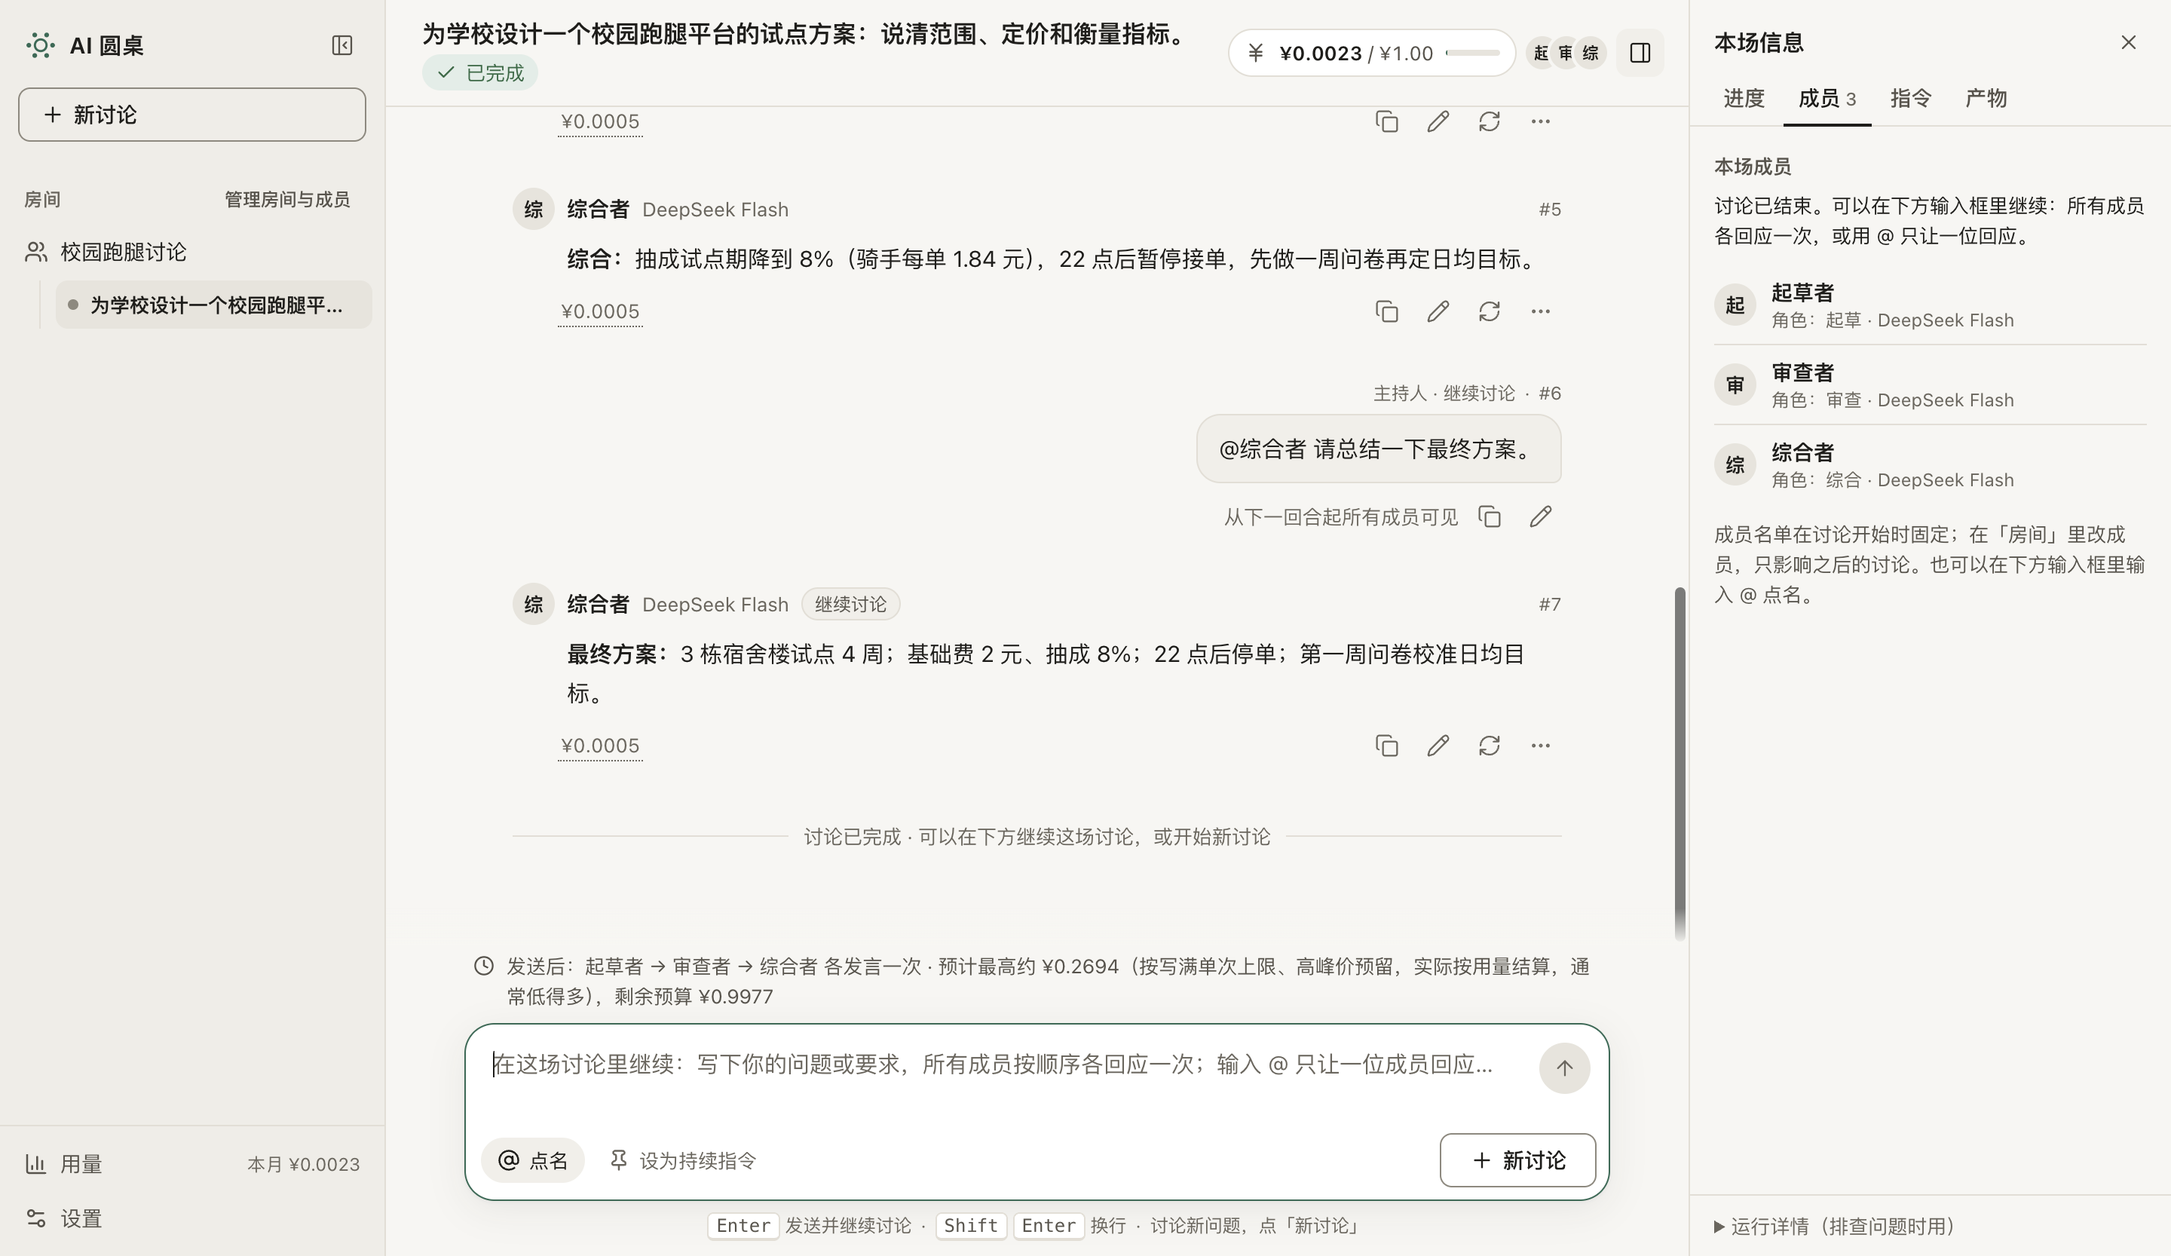
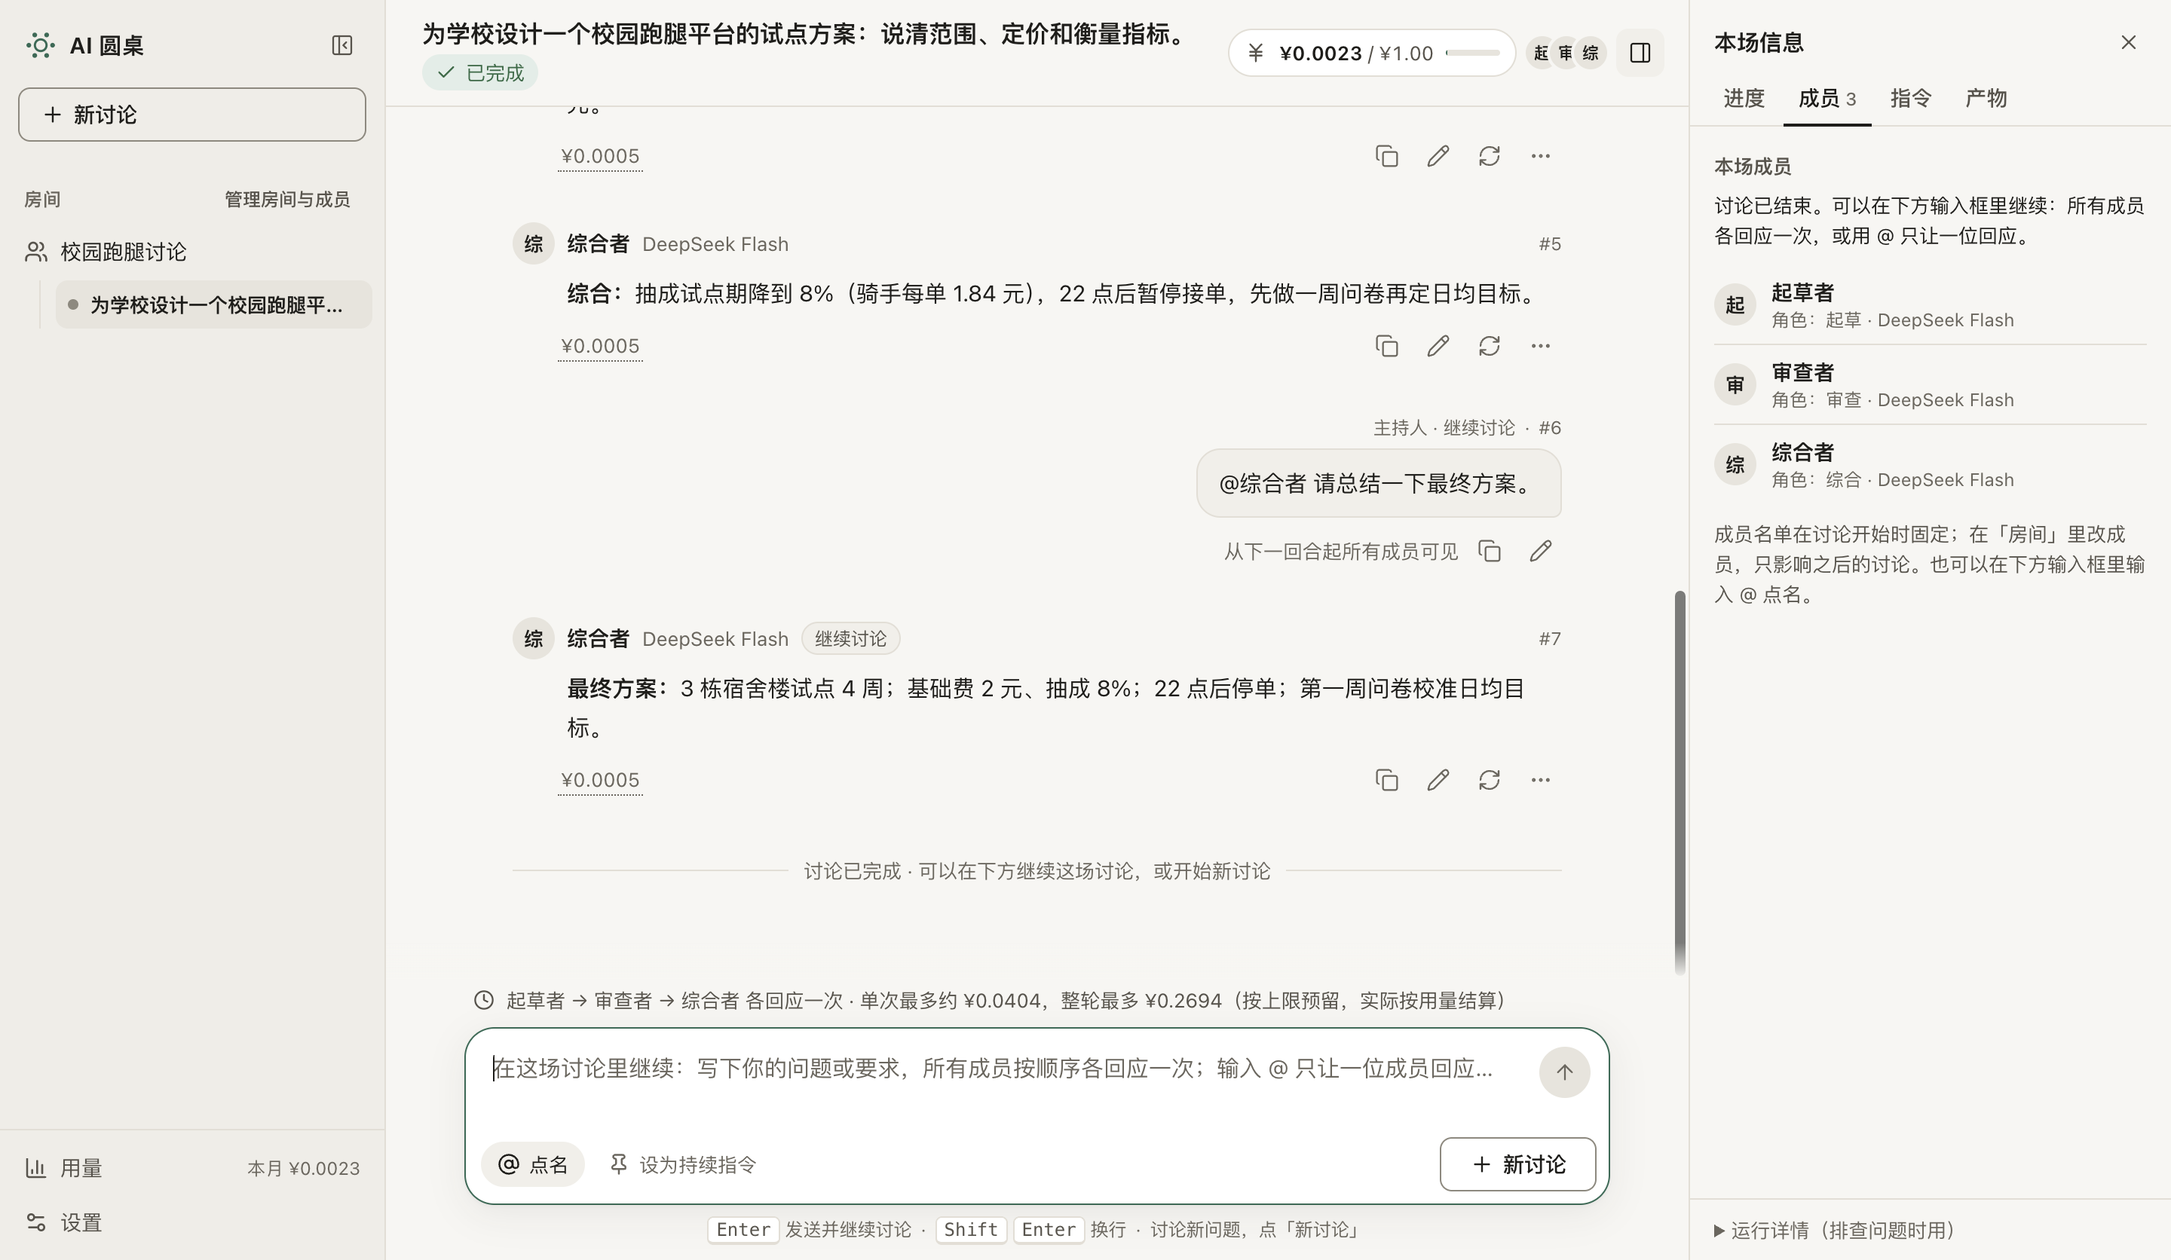
docs: review fixes in D111 and the continuity record; regenerate its screenshots
pnpm test 136 files / 2003 tests; r16-continuity-acceptance PASS (32 checks, 13 screenshots) on the final build.

diff --git a/docs/verification/2026-10-27-r16-continuity.md b/docs/verification/2026-10-27-r16-continuity.md
@@ -25,23 +25,24 @@
 | 检查 | 命令 | 结果 |
 | --- | --- | --- |
 | 类型检查 | `pnpm run typecheck` | exit 0 |
-| 全量测试 | `pnpm test`（Electron 自带 Node） | exit 0，135 个文件 / 1998 个测试全部通过（基线 main 为 134 / 1977） |
+| 全量测试 | `pnpm test`（Electron 自带 Node） | exit 0，136 个文件 / 2003 个测试全部通过（基线 main 为 134 / 1977） |
 | 构建 | `pnpm run build` | exit 0 |
 
 新增 / 改写的测试：
 
-- `tests/integration/host/continuity.test.ts`（新，12 项）：D110 第 2 轮后点名 B → A、B、B（插入）、C，C 看得到检查；最后一位发言时点名 → 插入后结束；工作流中点名后步骤全部完成、无 `limitReason`、总回合 = 步骤 + 1。D111 @C 继续（同一 Run、C 看到全部历史与主持人的话、自己的旧回复仍是 assistant、重复投递幂等、换内容复用 clientRequestId 被拒、事件序列递增）；不带 @ 全员一轮且后者看得到前者；运行中拒绝且不留痕迹；停用成员不参与、点名停用成员被拒、点名外人 `not_found`；停止后继续不回到原计划；新的时长额度；继续中再点名；工作流运行继续不带阶段要求。D112 修改前请求体没有修改规则、修改后有。
+- `tests/integration/host/continuity.test.ts`（新，13 项）：主持人修改过的回合算已结算、可以继续；D110 第 2 轮后点名 B → A、B、B（插入）、C，C 看得到检查；最后一位发言时点名 → 插入后结束；工作流中点名后步骤全部完成、无 `limitReason`、总回合 = 步骤 + 1。D111 @C 继续（同一 Run、C 看到全部历史与主持人的话、自己的旧回复仍是 assistant、重复投递幂等、换内容复用 clientRequestId 被拒、事件序列递增）；不带 @ 全员一轮且后者看得到前者；运行中拒绝且不留痕迹；停用成员不参与、点名停用成员被拒、点名外人 `not_found`；停止后继续不回到原计划；新的时长额度；继续中再点名；工作流运行继续不带阶段要求。D112 修改前请求体没有修改规则、修改后有。
+- `tests/integration/host/continuityLedger.test.ts`（新，3 项，总控审查后补）：`run_continuations` 的 UPDATE、DELETE 被拒；action 是另一场讨论的点名、另一场讨论的插话或不存在时插入被拒；`validateDatabase` 能发现回答者不在这次继续的名单里、回答次数超过名单人数、三条保护触发器中任一条缺失。
 - `tests/integration/usage/runBudget.test.ts`（+1）：DeepSeek 夹具下，继续的每次回答都预留并结算；估算不低于实际预留之和，第一次的估算不低于第一次实际预留；第一次放不下剩余预算时 `budget_exceeded`，没有写任何主持人操作或继续记录、没有发请求；第二位成员看到了主持人的话和第一位的回答。
 - `tests/integration/host/persistence.test.ts`（+1）：继续中途异常退出 → 重启后 `interrupted`、0 次请求、`resume` 被拒、`retry` 后补完本轮，共 2 次请求；数据库校验 v10 通过。
 - `tests/unit/context/discussionFormat.test.ts`：没有修改时请求体不含“写于前序修改之前”“已由主持人修改”，规则编号 1–3；有受影响回复或主持人修改的插话时规则出现并编号为 3。
-- `tests/unit/chatUI/composer.test.tsx`（+3）、`tests/unit/rendererHost/hostFeature.test.tsx`（+1）、`tests/unit/chatUI/timeline.test.tsx`（+1）：继续模式的预计花费与谁回应、@ 只让一位回应、一次点两位被拒且保留文字、预算不足时指向追加预算且发送按钮不可用；“下一位 / 之后”投影；主持人发话后时间线回到最新。
+- `tests/unit/chatUI/composer.test.tsx`（+3）、`tests/unit/rendererHost/hostFeature.test.tsx`（+2，含界面按与 Main 相同的“已结算”规则判断能否继续：请求未完成的版本不算、主持人修改算、停在半截的回合不算、预算停下不走继续）、`tests/unit/chatUI/timeline.test.tsx`（+1）：继续模式的预计花费与谁回应、@ 只让一位回应、一次点两位被拒且保留文字、预算不足时指向追加预算且发送按钮不可用；“下一位 / 之后”投影；主持人发话后时间线回到最新。
 - 按新语义改写（原因：D110 点名不再替换原计划的下一位；D111 已结束的讨论默认继续而不是另开一场）：`hostCommands.test.ts`（`['a','c','b']` → `['a','c','b','c']`）、`appFlow.test.tsx`（起草者 → 被点名的综合者 → 审查者 → 综合者，受影响 2 → 3）、`hostFeature.test.tsx`（已完成的运行显示继续框）、`composer.test.tsx`（工作流第一步的起草者“按计划本来就是下一位”）、`rendererSync.test.tsx`（完成提示文案）、`stateMachine.test.ts`（`completed → running` 允许）、各 migration 测试的最新版本 9 → 10。
 
 ### 受影响的探针
 
 | 探针 | 结果 | 说明 |
 | --- | --- | --- |
-| `r16-continuity-acceptance`（新） | PASS，31 项检查 / 13 张截图 / 8 次请求 | 本专项的第 2 层实操，见下节 |
+| `r16-continuity-acceptance`（新） | PASS，32 项检查 / 13 张截图 / 8 次请求（审查后最终构建） | 本专项的第 2 层实操，见下节 |
 | `r12-electron` 首次 + `--restart` | PASS，22 + 14 项，重启后 0 次请求 | `r12-ui.cjs` 按 D110 改写：顺序为起草者 → 被点名的综合者 → 审查者 → 综合者，受影响 2 → 3，重新生成最后一条，请求 5 次 |
 | `r12-acceptance` | PASS，25 项 / 14 张 | 按 D110/D111 改写：已完成的运行显示继续框；改第一条后受影响 3 条；开下一场前先点「新讨论」 |
 | `r13a-electron` 首次 + `--restart` | PASS，13 + 12 项 | 未改 |
@@ -72,14 +73,14 @@
 | 02-named-critic | 点「点名」打开菜单，方向键选审查者、Enter 写入 `@审查者 `，再用输入法输入“检查一下骑手收入那一段的数字。”（组合中按回车只确认候选，没有发送），Enter 发送。提示条：“下一位：审查者（主持人点名，插入一轮，不打断正在进行的发言）· 之后回到原计划：综合者”，并有「取消点名」。 |
 | 03-panel-members-named | 本场信息 › 成员 写同样的话，并说明“点名是在下一回合插入一轮：不占用计划的回合，之后回到原计划，原计划的成员不会被跳过”。 |
 | 04-path1-done | 点「继续」后跑完：起草者、审查者、主持人插话、审查者（标“主持人点名”，核对了数字）、综合者照常综合，用到了审查者的核对。时间线末尾“讨论已完成 · 可以在下方继续这场讨论，或开始新讨论”。 |
-| 05-completed-continue-box | 讨论结束后输入框默认“在这场讨论里继续”（占位文字说明不带 @ 时所有成员各回应一次、带 @ 只让一位回应），上方写“发送后：起草者 → 审查者 → 综合者 各发言一次 · 预计最高约 ¥…（按写满单次上限、高峰价预留，实际按用量结算，通常低得多），剩余预算 ¥…”；槽位是「新讨论」，提示行写“讨论新问题，点「新讨论」”。本场信息 › 成员：“讨论已结束。可以在下方输入框里继续…”。 |
+| 05-completed-continue-box | 讨论结束后输入框默认“在这场讨论里继续”（占位文字说明不带 @ 时所有成员各回应一次、带 @ 只让一位回应）。上方一行写“起草者 → 审查者 → 综合者 各回应一次 · 单次最多约 ¥0.0400，整轮最多 ¥0.2679（按上限预留，实际按用量结算）”，1440 宽、本场信息展开时也只占一行（探针按行高核对）；剩余预算见顶栏，不够时会在下面另起一行警告。槽位是「新讨论」，提示行写“讨论新问题，点「新讨论」”。本场信息 › 成员：“讨论已结束。可以在下方输入框里继续…”。 |
 | 06-continue-mention | 继续时点「点名」：菜单标题“只让一位成员回应”，说明带 @ 与不带 @ 的区别。 |
-| 07-continue-at-synth | 选综合者并输入“请总结一下最终方案。”：提示条变成“只由综合者回应一次 · 预计最高约 ¥0.04…”。打字期间没有发出任何请求。 |
+| 07-continue-at-synth | 选综合者并输入“请总结一下最终方案。”：提示行变成“只由综合者回应一次 · 最多 ¥0.04…（按上限预留，实际按用量结算）”。打字期间没有发出任何请求。 |
 | 08-continue-at-synth-done | Enter 后在同一场讨论里继续（运行 ID 不变、侧栏仍只有这一场）：主持人的话标“主持人 · 继续讨论”，综合者的回答标“继续讨论”。它的请求里有前面全部发言和主持人的两段话，它自己先前的综合仍作为它自己的发言（assistant）。 |
-| 09-continue-round | 不带 @ 输入“再各说一句：试点最大的风险是什么？”：提示条“起草者 → 审查者 → 综合者 各发言一次 · 预计最高约 …”。 |
+| 09-continue-round | 不带 @ 输入“再各说一句：试点最大的风险是什么？”：提示行“起草者 → 审查者 → 综合者 各回应一次 · 单次最多约 …，整轮最多 …”。 |
 | 10-continue-round-done | 三位按顺序各回应一次，都标“继续讨论”；后面的成员看得到前面的回答（请求内容已核对）。8 次请求全部预留并按实际用量结算。 |
 | 11-panel-progress | 本场信息 › 进度：“成员按顺序轮流发言 · 计划 3 / 3 回合 · 另有 5 轮插入（点名 1、继续讨论 4）”。 |
-| 12-continue-box-dark | 深色主题下的继续框与提示条。 |
+| 12-continue-box-dark | 深色主题下的继续框与单行的花费提示。 |
 | 13-new-discussion | 点「新讨论」才出现“这场讨论要解决什么？”和目标框；没有发出请求，上一场留在侧栏。 |
 
 同一次实操还核对了 D112：8 次请求的系统消息里都没有“写于前序修改之前”“已由主持人修改”，规则编号为 1–3。
@@ -89,7 +90,15 @@
 1. 讨论结束、输入框切换为继续模式后，上一阶段的“已点名审查者并发送插话…”提示还挂着 —— 切换时清掉。
 2. 主持人发出继续（或插话）时，如果之前往上翻看过，时间线不会回到最新，看不到回答 —— 主持人发话后时间线回到最新（`Timeline` 的 `latestFromHost`，有单元测试）。
 3. 继续提示条文字较长换行时，时钟图标单独占了一行 —— 图标固定在首行，文字自身换行。
-4. 预计花费只写“预计最高 ¥0.17”容易被误读成实际花费 —— 写明“按写满单次上限、高峰价预留，实际按用量结算，通常低得多”。
+4. 预计花费只写“预计最高 ¥0.17”容易被误读成实际花费 —— 写明“按上限预留，实际按用量结算”。总控审查后进一步改为单次与整轮分开说、压成一行（见下节）。
+
+## 总控审查后的修改（2026-10-27）
+
+1. **花费说明**：上限算法不变。提示行把单次（第一位回应的上限）和整轮（全部回应的上限）分开说，括号只留“按上限预留，实际按用量结算”；去掉了“发送后：”前缀和剩余预算（顶栏预算胶囊里有，不够时警告里写明剩余多少），1440 宽、本场信息展开时也只占一行。预算不足与“可能不够一整轮”的警告逻辑不变。重新截了 05、07、08、09、12（含深色），全套 13 张已按最终代码重新生成。
+2. **migration 10 保护测试**：新增 `tests/integration/host/continuityLedger.test.ts`（3 项，见第 1 层）。
+3. **“能否继续”前后端对齐**：Renderer 新增与 Main `turnSettled` 相同规则的 `turnSettled`（回合已完成，且当前有效版本是已完成的消息，它自己的请求已完成或它是主持人修改），`canContinueRun` 改用它。审查意见里说的“失败后被主持人修改过的回合”在 Main 里并不算已结算（Main 要求回合状态为已完成，主持人也不能修改未结算的回合），所以实际差异是另一边：Renderer 原来只看回合状态，没有看当前有效版本和它的请求。现在两边一致，单元测试与集成测试各覆盖一条。
+
+修改后：typecheck exit 0；136 个文件 / 2003 个测试全部通过；build exit 0。`r16-continuity-acceptance` 在最终构建上 PASS（32 项检查、13 张截图、8 次请求）；`r12-acceptance`、`r13a-acceptance`、`r13b-acceptance`、`premerge-quality-acceptance`、`r16-acceptance`、`r10-r11-electron`（首次 + 重启）在压缩文案之前的构建上 PASS，两者之间只差继续提示行的文案（这些探针不读这行），其余截图目录已还原。
 
 ## 第 3 层：真实模型实测
 
@@ -97,15 +106,15 @@
 
 1. 三位成员（起草 / 审查 / 综合），按顺序轮流 3 回合，勾选“每回合后暂停”。目标：设计校园跑腿平台试点方案。
 2. 第 1、2 轮后暂停，输入 `@审查者 检查一下骑手收入那一段的数字`，确认“下一位：审查者（主持人点名，插入一轮…）· 之后回到原计划：综合者”，点「继续」。核对：审查者插入一轮，综合者照常综合；综合者的回答里用到了审查者的核对。（4 次请求）
-3. 讨论结束后，输入 `@综合者 请总结最终方案`，确认输入框上方“只由综合者回应一次 · 预计最高约 ¥…”。核对：综合者在同一场讨论里回答、引用了前面的内容；侧栏仍只有这一场。（1 次请求）
+3. 讨论结束后，输入 `@综合者 请总结最终方案`，确认输入框上方“只由综合者回应一次 · 最多 ¥…（按上限预留，实际按用量结算）”。核对：综合者在同一场讨论里回答、引用了前面的内容；侧栏仍只有这一场。（1 次请求）
 4. 再输入（不带 @）`再各说一句：试点最大的风险是什么？`。核对：三位按顺序各回应一次，后面的成员不重复前面的观点。（3 次请求）
 5. 全程核对：没有任何一次回答复述“写于前序修改之前”之类的规则文字；本场信息 › 进度显示“计划 3 / 3 回合 · 另有 5 轮插入（点名 1、继续讨论 4）”；用量页的请求次数与 DeepSeek 控制台一致。
 
-预计花费：共 8 次请求。参照 2026-10-27 试用（6 次约 ¥0.052，高峰价），加上后面的请求上下文更长，按高峰价约 ¥0.08–0.12，空闲时段约一半。界面上的“预计最高”按每位写满单次上限（4096）和高峰价预留，会显示得高得多（一轮三位约 ¥0.27），结束后按实际用量结算。
+预计花费：共 8 次请求。参照 2026-10-27 试用（6 次约 ¥0.052，高峰价），加上后面的请求上下文更长，按高峰价约 ¥0.08–0.12，空闲时段约一半。界面上的“单次最多 / 整轮最多”按写满单次上限（4096）和高峰价计算，会显示得高得多（单次约 ¥0.04，一轮三位约 ¥0.27），结束后按实际用量结算。
 
 ## 遗留问题
 
-- 继续时的“预计最高”是估算：每次发言按当时的上下文报价，再加上主持人这段话和此前回应按写满上限估出的输入。实际仍以每次发送前的预留为准，所以第一次发言是严格上界，后面几次是估算（中文按每 token 约 5 字节，取 6 字节）。
+- 继续时的“整轮最多”是估算：每次发言按当时的上下文报价，再加上主持人这段话和此前回应按写满上限估出的输入。实际仍以每次发送前的预留为准，所以第一次发言是严格上界，后面几次是估算（中文按每 token 约 5 字节，取 6 字节）。
 - 继续只能在讨论空闲时发起；运行中仍是插话 / 点名。
 - 因预算停下的运行仍按原方式处理（插话 + 追加并继续）。追加后会先跑完原计划；如果主持人只想让某位成员回答，可以先点名。
 - 本场信息 › 成员 / 进度、时间线标签仍按 R16 第一批的结构；R16 第二批如果改动输入框或侧栏，需要保留“继续讨论”与「新讨论」两个入口的区分。
